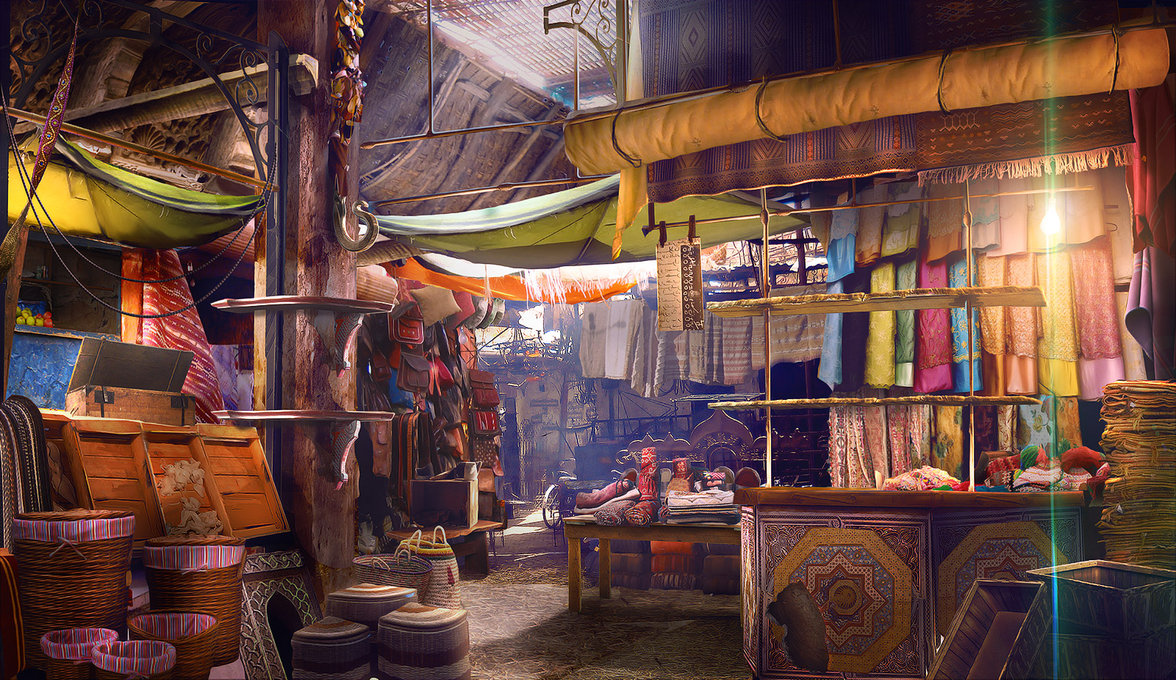
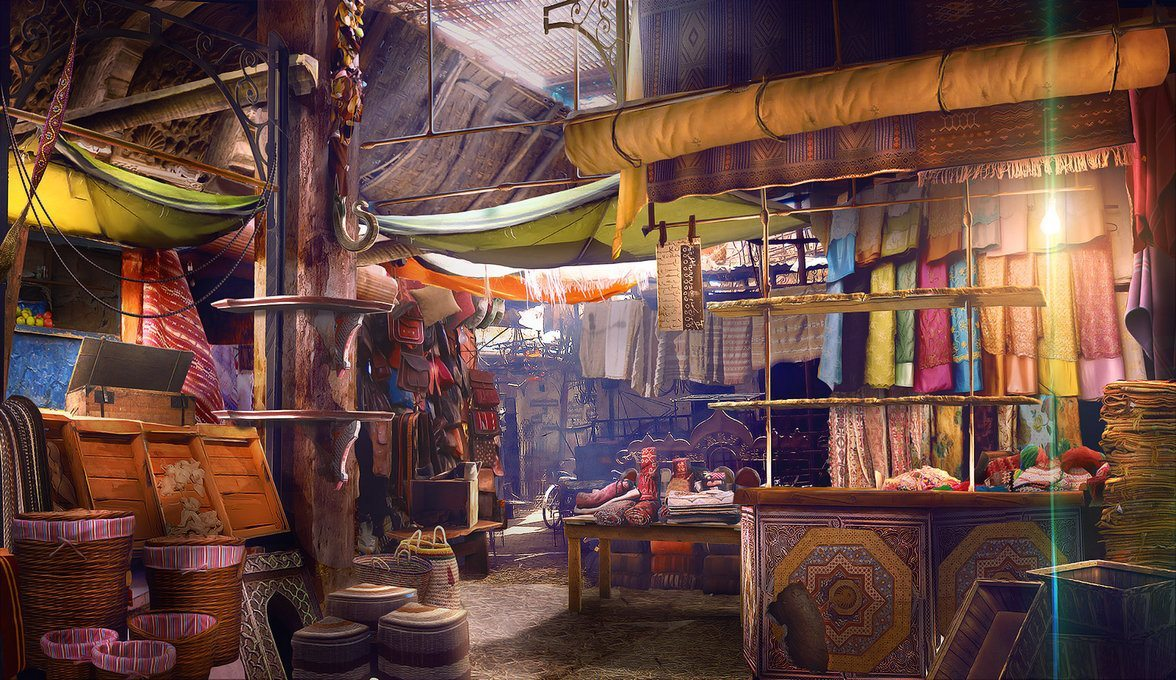
(refactor) further optimizes background images

diff --git a/client/app/auth/signin.html b/client/app/auth/signin.html
@@ -1,7 +1,7 @@
 <div class='scrollable'>
 
 
-  <div class='container scrollable-content section' style='background-image: url(../../assets/images/signin_background.JPG); background-size: cover'>
+  <div class='container scrollable-content section signin-background'>
     <div class='backshade col-sm-6 col-centered'>
     <strong class='bigText shwopText'>Shwop!</strong>
       <form role='form' ng-submit='signin()'>

diff --git a/client/styles/style.scss b/client/styles/style.scss
@@ -306,6 +306,16 @@ select:invalid option { color: black; }
   float: right;
 }
 
+.signin-background {
+  background-image: url(../../assets/images/signin_background.JPG);
+  background-size: cover;
+}
+
+.welcome-background {
+  background-image: url(../../assets/images/welcome_background.jpg);
+  background-size: cover;
+}
+
 .fake-link {
     color: blue;
     cursor: pointer;

diff --git a/client/styles/style.css b/client/styles/style.css
@@ -245,6 +245,14 @@ select:invalid option {
 .right-align {
   float: right; }
 
+.signin-background {
+  background-image: url(../../assets/images/signin_background.JPG);
+  background-size: cover; }
+
+.welcome-background {
+  background-image: url(../../assets/images/welcome_background.jpg);
+  background-size: cover; }
+
 .fake-link {
   color: blue;
   cursor: pointer; }

diff --git a/client/app/products/products.html b/client/app/products/products.html
@@ -17,7 +17,7 @@
 <!-- </div> -->
 
 
-<div class="carousel" style='background-image: url(../../assets/images/welcome_background.jpg); background-size: cover'>
+<div class="carousel welcome-background">
   <div class="carousel-inner">
     <div class="carousel-item" ng-repeat= 'product in data.products.slice(0,3) | filter:search'>
 

diff --git a/client/app/auth/welcome.html b/client/app/auth/welcome.html
@@ -1,4 +1,4 @@
-<div style='background-image: url(../../assets/images/welcome_background.jpg); background-size: cover'>
+<div class='welcome-background'>
   <div class='scrollable-header'>
     <nav class='navbar navbar-app navbar-relative-top'>
       <strong class="navbar-brand-center navbar-brand">Shwop</strong>
